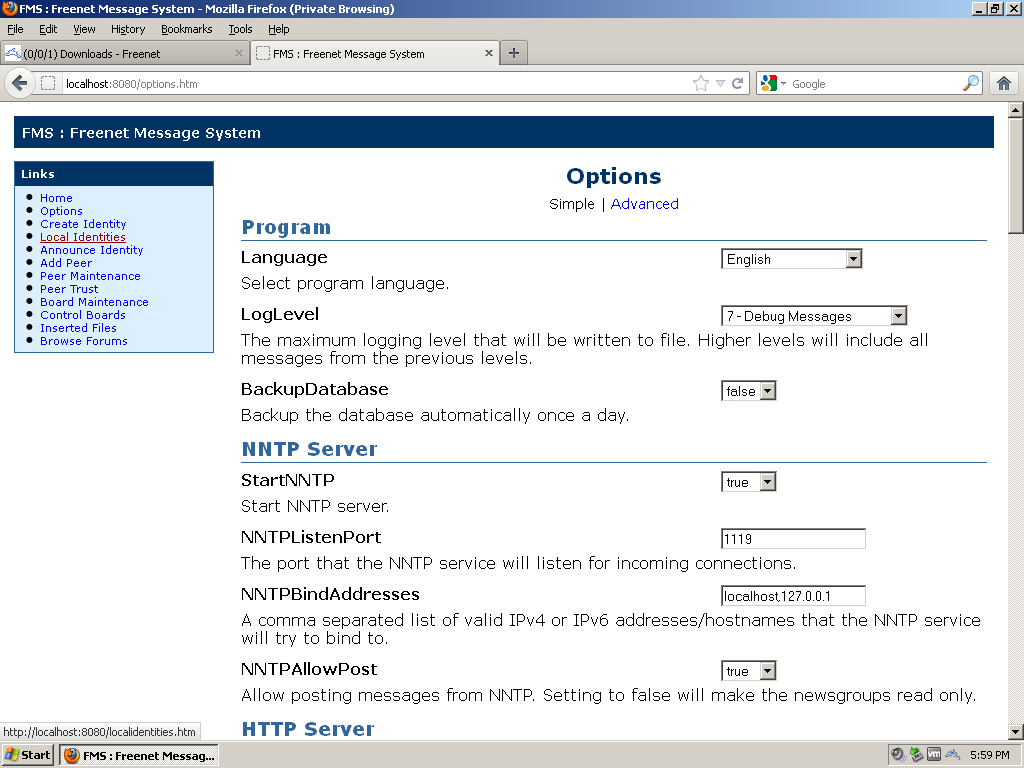
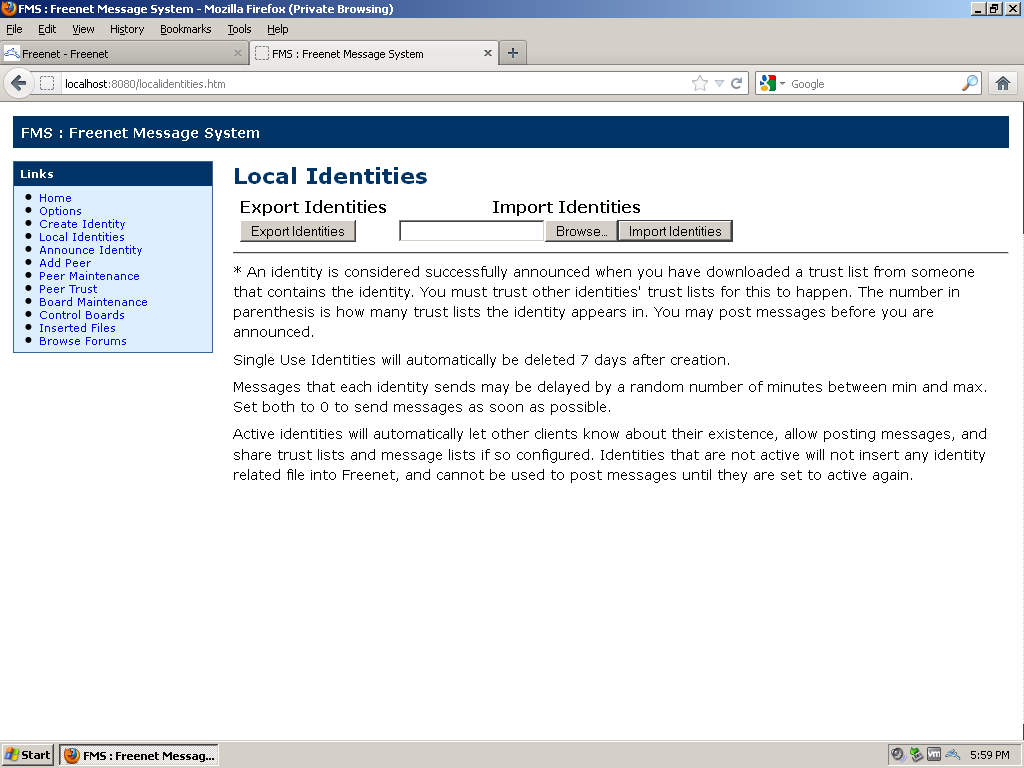
remove unnecessary steps from FMS tutorial

diff --git a/fms.html b/fms.html
@@ -78,21 +78,17 @@
 			<p><a href="images/setup073.png"><img src="images/setup073.png" width="640" height="480" alt="Step 5" /></a></p>
 		</li>
 		<li><p>This is the main interface for FMS you may want to bookmark it on your browser.</p>
-			<p>Go to the Options page.</p>
+			<p>Go to the Local Identities page and then switch tabs back to the Freenet interface.</p>
 			<p><a href="images/setup074.png"><img src="images/setup074.png" width="640" height="480" alt="Step 6" /></a></p>
 		</li>
-		<li><p>Enable WOT to allow FMS to read your WebOfTrust identity. Sone support is unnecessary unless you want to be able to read Sone posts in Thunderbird as well as the web interface.</p>
-			<p><a href="images/setup075.png"><img src="images/setup075.png" width="640" height="480" alt="Step 7" /></a></p>
-		</li>
-		<li>	<p>At this point we're going to link your WoT identity to your FMS identity so that posts in both places will come from the same identity.</p>
-			<p>Go to the Local Identities page and then switch tabs back to the Freenet interface.</p>
-			<p><a href="images/setup076.png"><img src="images/setup076.png" width="640" height="480" alt="Step 8" /></a></p>
+		<li><p>At this point we're going to link your WoT identity to your FMS identity so that posts in both places will come from the same identity.</p>
+			<p><a href="images/setup076.png"><img src="images/setup076.png" width="640" height="480" alt="Step 7" /></a></p>
 		</li>
 		<li><p>Open the Own anonymous identities page.</p>
-			<p><a href="images/setup077.png"><img src="images/setup077.png" width="640" height="480" alt="Step 9" /></a></p>
+			<p><a href="images/setup077.png"><img src="images/setup077.png" width="640" height="480" alt="Step 8" /></a></p>
 		</li>
 		<li><p>Click on the edit tab to get your keys. You should also have this information backed up somewhere safe after performing step 5 of the <a href="/wot.html">WebOfTrust tutorial</a>. If you didn't do that before, do it now.</p>
-			<p><a href="images/setup078.png"><img src="images/setup078.png" width="640" height="480" alt="Step 10" /></a></p>
+			<p><a href="images/setup078.png"><img src="images/setup078.png" width="640" height="480" alt="Step 9" /></a></p>
 		</li>
 		<li><p>FMS identity keys are compatible with WoT identity keys except they are written as SSK@ instead of USK@ and the FMS identity does not include the part including and after /WebOfTrust/</p>
 			<p>Using the following code as a template translate your WoT keys into FMS keys and save the resulting file as identities.xml. Copy your name exactly as it is shown on the Web Of Trust identity page.</p>
@@ -109,61 +105,55 @@
  &lt;/Identity&gt;
 &lt;/IdentityExport&gt;</pre>
 			<p>Make sure the format of your keys looks like the example below. They should both start with "SSK@" and end in ",AQECAAE/" (private key) and ",AQACAAE/" (public key).
-			<p><a href="images/setup079.png"><img src="images/setup079.png" width="640" height="480" alt="Step 11" /></a></p>
+			<p><a href="images/setup079.png"><img src="images/setup079.png" width="640" height="480" alt="Step 10" /></a></p>
 		</li>
 		<li><p>Import the identities.xml file you just created.</p>
-			<p><a href="images/setup080.png"><img src="images/setup080.png" width="640" height="480" alt="Step 12" /></a></p>
+			<p><a href="images/setup080.png"><img src="images/setup080.png" width="640" height="480" alt="Step 11" /></a></p>
 		</li>
 		<li><p>It will take a few minutes before FMS downloads your identity from the WebOfTrust, but first we need to restart FMS in order for the configuration changes to take effect.</p>
-			<p><a href="images/setup081.png"><img src="images/setup081.png" width="640" height="480" alt="Step 13" /></a></p>
+			<p><a href="images/setup081.png"><img src="images/setup081.png" width="640" height="480" alt="Step 12" /></a></p>
 		</li>
-		<li><p>Return to the home page and shutdown FMS.</p>
-			<p><a href="images/setup082.png"><img src="images/setup082.png" width="640" height="480" alt="Step 14" /></a></p>
-		</li>
-		<li><p>Restart FMS through the Control Panel.</p>
-			<p><a href="images/setup083png"><img src="images/setup083.png" width="640" height="480" alt="Step 15" /></a></p>
-		</li>
-		<li><p>In order for people who only have FMS identities instead of linked WoT-FMS identities to see your posts you need to announce in FMS just like you did before for the WebOfTrust.</p>
-			<p><a href="images/setup084.png"><img src="images/setup084.png" width="640" height="480" alt="Step 16" /></a></p>
+		<li><p>You need to announce your identity in FMS just like you did before for the WebOfTrust.</p>
+			<p><a href="images/setup084.png"><img src="images/setup084.png" width="640" height="480" alt="Step 13" /></a></p>
 		</li>
 		<li><p>The puzzle solving process is similar but FMS also has audio CAPTCHAs in addition to the graphical ones.</p>
-			<p><a href="images/setup085.png"><img src="images/setup085.png" width="640" height="480" alt="Step 17" /></a></p>
+			<p><a href="images/setup085.png"><img src="images/setup085.png" width="640" height="480" alt="Step 14" /></a></p>
 		</li>
 		<li><p>Like Freemail, FMS also has a web interface but you can also configure Thunderbird as your news reader.</p>
-			<p><a href="images/setup086.png"><img src="images/setup086.png" width="640" height="480" alt="Step 18" /></a></p>
+			<p><a href="images/setup086.png"><img src="images/setup086.png" width="640" height="480" alt="Step 15" /></a></p>
 		</li>
 		<li><p>Go to the Account Settings page and Add Other Account...</p>
-			<p><a href="images/setup087.png"><img src="images/setup087.png" width="640" height="480" alt="Step 19" /></a></p>
+			<p><a href="images/setup087.png"><img src="images/setup087.png" width="640" height="480" alt="Step 16" /></a></p>
 		</li>
 		<li><p>This is a Newsgroup account</p>
-			<p><a href="images/setup088.png"><img src="images/setup088.png" width="640" height="480" alt="Step 20" /></a></p>
+			<p><a href="images/setup088.png"><img src="images/setup088.png" width="640" height="480" alt="Step 17" /></a></p>
 		</li>
 		<li><p>The name you enter here must exactly match your FMS identity name. FMS will ignore the email address so you can enter anything, but you might want to put your Freemail address to make it easier to use Enigmail with this account.</p>
-			<p><a href="images/setup089.png"><img src="images/setup089.png" width="640" height="480" alt="Step 21" /></a></p>
+			<p><a href="images/setup089.png"><img src="images/setup089.png" width="640" height="480" alt="Step 18" /></a></p>
 		</li>
 		<li><p>FMS listens on the localhost interface.</p>
-			<p><a href="images/setup090.png"><img src="images/setup090.png" width="640" height="480" alt="Step 22" /></a></p>
+			<p><a href="images/setup090.png"><img src="images/setup090.png" width="640" height="480" alt="Step 19" /></a></p>
 		</li>
 		<li><p>Give the account a meaningful name.</p>
-			<p><a href="images/setup091.png"><img src="images/setup091.png" width="640" height="480" alt="Step 23" /></a></p>
+			<p><a href="images/setup091.png"><img src="images/setup091.png" width="640" height="480" alt="Step 20" /></a></p>
 		</li>
 		<li><p>That was painless.</p>
-			<p><a href="images/setup092.png"><img src="images/setup092.png" width="640" height="480" alt="Step 24" /></a></p>
+			<p><a href="images/setup092.png"><img src="images/setup092.png" width="640" height="480" alt="Step 21" /></a></p>
 		</li>
 		<li><p>Before you close this window change the Port to 1119 and make sure to check "Always request authentication when connecting to this server".</p>
-			<p><a href="images/setup093.png"><img src="images/setup093.png" width="640" height="480" alt="Step 25" /></a></p>
+			<p><a href="images/setup093.png"><img src="images/setup093.png" width="640" height="480" alt="Step 22" /></a></p>
 		</li>
 		<li><p>There won't be much to see here until you subscribe to some newsgroups.</p>
-			<p><a href="images/setup094.png"><img src="images/setup094.png" width="640" height="480" alt="Step 26" /></a></p>
+			<p><a href="images/setup094.png"><img src="images/setup094.png" width="640" height="480" alt="Step 23" /></a></p>
 		</li>
 		<li><p>Enter your FMS identity name here. No password is required.</p>
-			<p><a href="images/setup095.png"><img src="images/setup095.png" width="640" height="480" alt="Step 27" /></a></p>
+			<p><a href="images/setup095.png"><img src="images/setup095.png" width="640" height="480" alt="Step 24" /></a></p>
 		</li>
 		<li><p>Choose a few newsgroups that interest you. As time goes on more newsgroups will appear as FMS discovers them so check back from time to time.</p>
-			<p><a href="images/setup096.png"><img src="images/setup096.png" width="640" height="480" alt="Step 28" /></a></p>
+			<p><a href="images/setup096.png"><img src="images/setup096.png" width="640" height="480" alt="Step 25" /></a></p>
 		</li>
 		<li><p>Now you're ready to make you first post to FMS from Thunderbird. Use the test forum to avoid cluttering up other areas.</p>
-			<p><a href="images/setup097.png"><img src="images/setup097.png" width="640" height="480" alt="Step 29" /></a></p>
+			<p><a href="images/setup097.png"><img src="images/setup097.png" width="640" height="480" alt="Step 26" /></a></p>
 		</li>
 	</ol>
 
